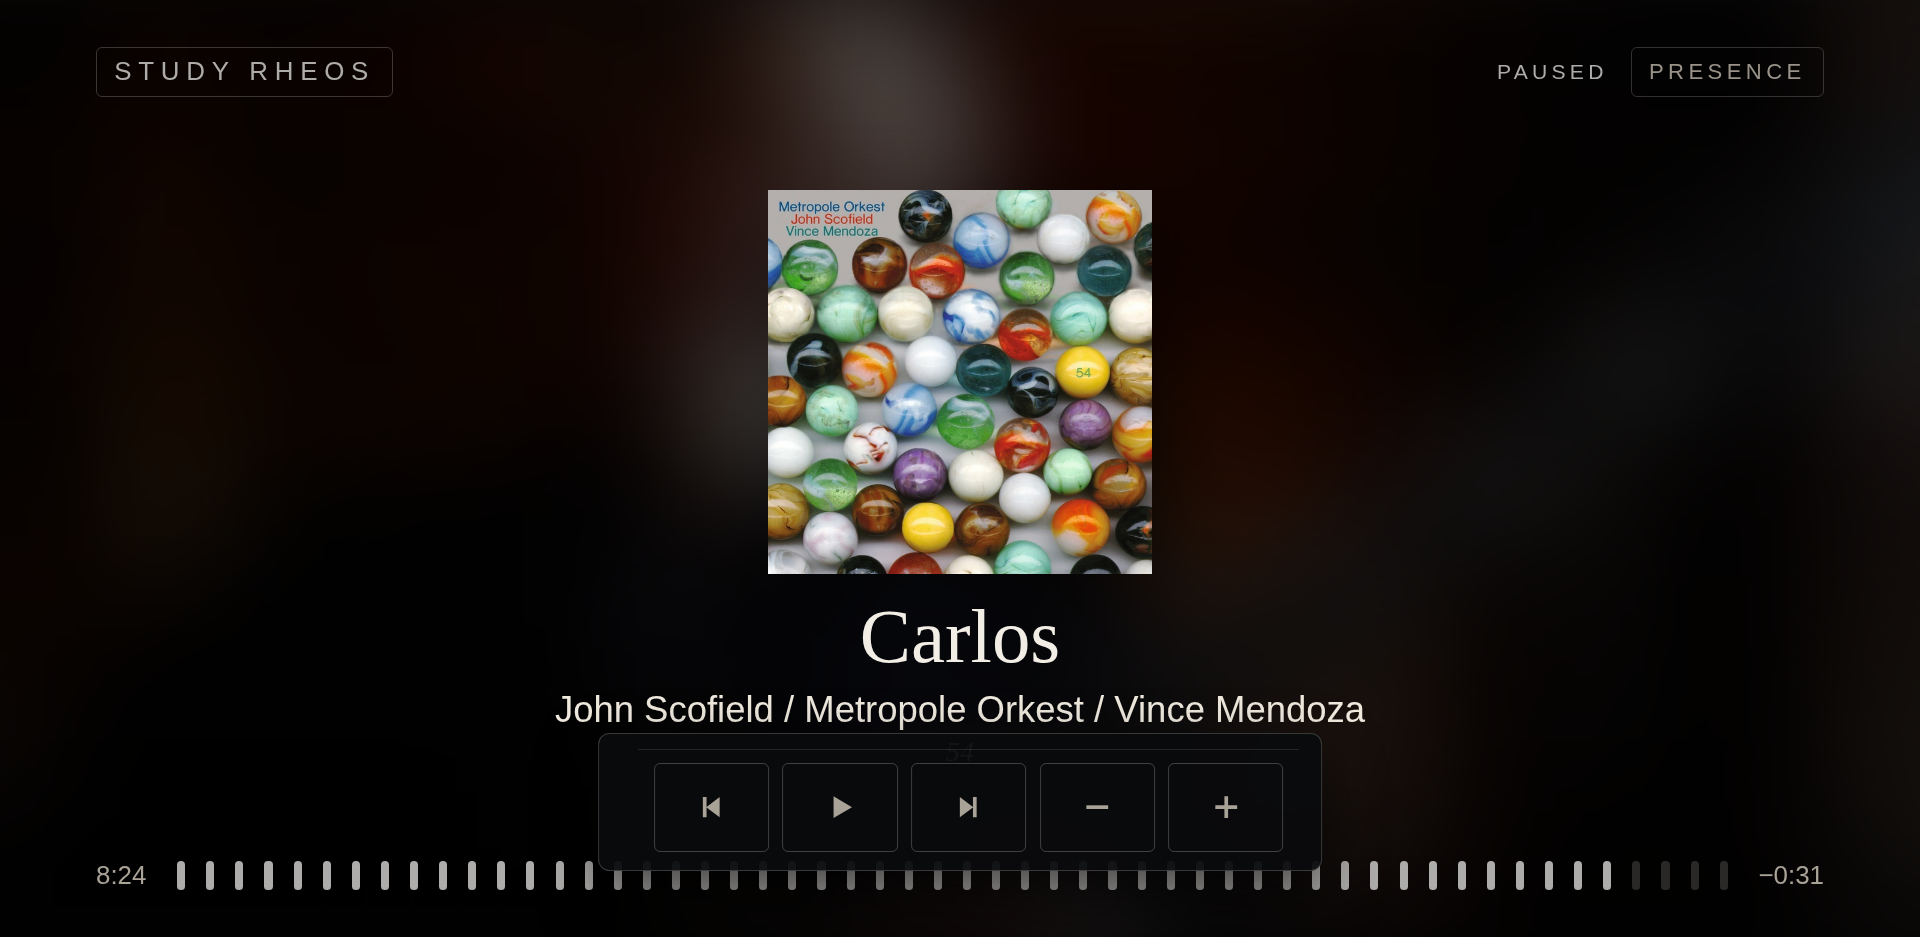
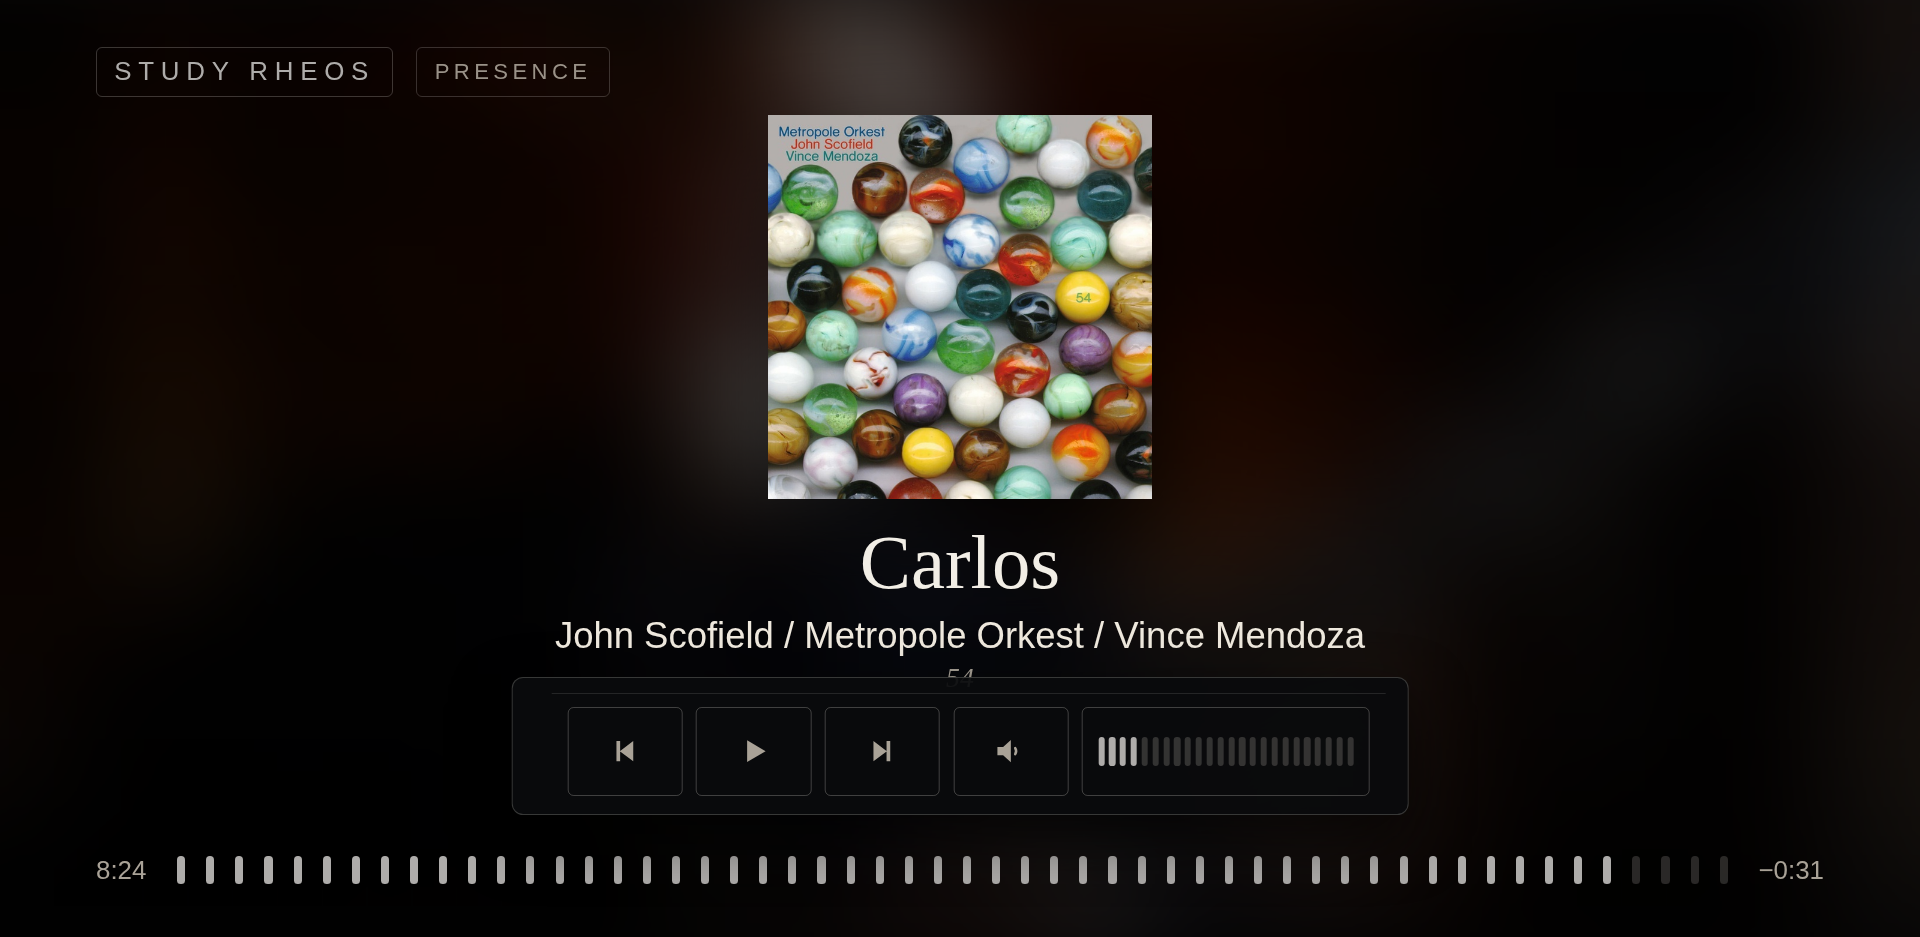
feat(face): seek by pressing the progress, and volume in the runway's own language
Three of Peter's notes, 08-26.

NEVER OVERLAY THE PROGRESS. It is a control now, so a bar sitting on it would hide
the thing you are trying to press. The transport bar clears it, and the row carries
its own z-index.

SEEK. The runway, the bar and the leader all mean the same thing — where you are in
the track — so pressing one anywhere means "go there". Roon says whether a zone can
seek at all and the refusal is shown rather than swallowed; a seek past the end is
refused before it is sent. Verified on the live Core: 5s -> 30s on a paused zone,
409 on a live stream, 400 past the end.

VOLUME, and this is the design answer to "not sure what would look elegant": a
speaker you press to mute, then a scale of segments you press anywhere on. The
segments are deliberately the same motif as the Approach lamps, so volume and
position read as ONE family rather than a slider borrowed from another design
world. The speaker's own waves say roughly how loud it is before the scale is read.
Press-to-position is the gesture — a remote held in the air cannot really drag — and
drag is a bonus where pointer events allow it. An `incremental` output has no level
to show, so it still gets plus and minus.

Absolute volume is clamped server-side to what the device reports it accepts, so a
mis-scaled UI cannot shout.

AND LESS CHROME: the top right is just the face's name now. Playing and paused were
already legible from the transport button's shape and from whether the progress was
[…]

diff --git a/assets/face.js b/assets/face.js
@@ -537,8 +537,17 @@ function render(snapshot, kind) {
     if (chipHost.childNodes.length !== wanted.length) {
       chipHost.replaceChildren.apply(chipHost, wanted.map(function (o) { return el('span', 'chip', o.name); }));
     }
+    /**
+     * Only say something WORTH saying (Peter, 08-26: "we don't need to indicate
+     * playing or paused, just the name of the face").
+     *
+     * Playing and paused are already legible from the transport button's own shape
+     * and from whether the progress is moving — printing them was noise beside the
+     * face name. A Core that has gone away, or a stream still catching up, is not
+     * visible anywhere else, so those still speak.
+     */
     status.textContent = streamState === 'catching-up' ? 'catching up…'
-      : (away ? 'Roon is away' : (zone.state === 'playing' ? 'playing' : zone.state));
+      : (away ? 'Roon is away' : (zone.state === 'loading' ? 'loading' : ''));
 
     var np = zone.nowPlaying;
     if (np === null || zone.state === 'stopped') {
@@ -862,13 +871,35 @@ function showPicker(mode) {
   controls.appendChild(button('next', 'next', zone !== null && zone.allowed.next,
     function () { transport('next'); }));
 
-  // Volume: plus and minus only, no slider — a slider is a drag to miss on a TV.
+  /**
+   * VOLUME, in the runway's own language.
+   *
+   * A speaker you press to mute, then a scale of segments you press anywhere on.
+   * The segments are the same motif as the Approach progress, so volume and
+   * position belong to one visual family rather than a slider imported from a
+   * different design world. Pressing a position sets it absolutely — dragging with
+   * a pointer remote held in the air is miserable, so press-to-position is the
+   * gesture and drag is only a bonus where the device supports it.
+   *
+   * An `incremental` output has no level to show at all — Roon says so — and falls
+   * back to plus and minus.
+   */
   var output = volumeOutput();
-  var hasVolume = output !== null && !!output.volume;
-  controls.appendChild(button('minus', hasVolume ? ('quieter \u00B7 ' + output.name) : 'no volume control',
-    hasVolume, function () { nudgeVolume(-1); }));
-  controls.appendChild(button('plus', hasVolume ? ('louder \u00B7 ' + output.name) : 'no volume control',
-    hasVolume, function () { nudgeVolume(1); }));
+  var vol = output === null ? null : output.volume;
+  if (vol === null) {
+    controls.appendChild(button('minus', 'no volume control', false, function () {}));
+    controls.appendChild(button('plus', 'no volume control', false, function () {}));
+  } else if (vol.type === 'incremental' || vol.value === null || vol.max === null) {
+    controls.appendChild(volumeSpeaker(output, 0.5));
+    controls.appendChild(button('minus', 'quieter \u00B7 ' + output.name, true, function () { nudgeVolume(-1); }));
+    controls.appendChild(button('plus', 'louder \u00B7 ' + output.name, true, function () { nudgeVolume(1); }));
+  } else {
+    var min = vol.min === null ? 0 : vol.min;
+    var span = Math.max(1, vol.max - min);
+    var level = Math.max(0, Math.min(1, (vol.value - min) / span));
+    controls.appendChild(volumeSpeaker(output, vol.muted ? 0 : level));
+    controls.appendChild(volumeScale(output, level, min, span));
+  }
   actionRow.appendChild(controls);
   if (mode === 'transport') nodes.push(actionRow);
 
@@ -1071,6 +1102,41 @@ function pressable(node, onPress) {
   node.addEventListener('keyup', fire);
   node.setAttribute('tabindex', '0');
   node.setAttribute('role', 'button');
+}
+
+function glyphSpeaker(level, muted) {
+  var svg = document.createElementNS(SVG_NS, 'svg');
+  svg.setAttribute('viewBox', '0 0 24 24');
+  svg.setAttribute('class', 'glyph');
+  svg.setAttribute('aria-hidden', 'true');
+  var cone = document.createElementNS(SVG_NS, 'path');
+  cone.setAttribute('fill', 'currentColor');
+  cone.setAttribute('d', 'M4 9.5h3.4L12 5.4v13.2L7.4 14.5H4z');
+  svg.appendChild(cone);
+  var wave = function (d) {
+    var w = document.createElementNS(SVG_NS, 'path');
+    w.setAttribute('fill', 'none');
+    w.setAttribute('stroke', 'currentColor');
+    w.setAttribute('stroke-width', '1.5');
+    w.setAttribute('stroke-linecap', 'round');
+    w.setAttribute('d', d);
+    return w;
+  };
+  if (muted) {
+    var slash = document.createElementNS(SVG_NS, 'path');
+    slash.setAttribute('stroke', 'currentColor');
+    slash.setAttribute('stroke-width', '1.7');
+    slash.setAttribute('stroke-linecap', 'round');
+    slash.setAttribute('d', 'M15 9.5l5 5m0-5l-5 5');
+    svg.appendChild(slash);
+  } else {
+    // The cone alone means silence; each wave is a step of loudness, so the icon
+    // says roughly how loud it is before the scale beside it is even read.
+    if (level > 0.02) svg.appendChild(wave('M14.6 10.2a3.4 3.4 0 0 1 0 3.6'));
+    if (level > 0.34) svg.appendChild(wave('M16.9 8.4a6.6 6.6 0 0 1 0 7.2'));
+    if (level > 0.67) svg.appendChild(wave('M19.2 6.6a9.8 9.8 0 0 1 0 10.8'));
+  }
+  return svg;
 }
 
 function glyphCog() {
@@ -1421,6 +1487,76 @@ function reportPointer(label, count) {
   } catch (error) { /* older engine */ }
 }
 
+/**
+ * SEEK BY PRESSING THE PROGRESS.
+ *
+ * The runway, the bar and the leader all mean the same thing — where you are in
+ * the track — so pressing one anywhere means "go there". Roon says whether the
+ * zone can seek at all (a live stream cannot), and the refusal is shown rather
+ * than swallowed.
+ */
+function seekFromPress(clientX) {
+  var zone = currentZone();
+  if (zone === null || zone.nowPlaying === null) return;
+  if (!zone.allowed.seek) { flash('this cannot be scrubbed'); return; }
+  var length = zone.nowPlaying.lengthSec;
+  if (!length) { flash('no track length to seek within'); return; }
+  var box = foot.getBoundingClientRect();
+  if (box.width <= 0) return;
+  var fraction = Math.max(0, Math.min(1, (clientX - box.left) / box.width));
+  command({ action: 'seek', zone: zone.id, seconds: Math.round(fraction * length) });
+}
+
+/** The speaker doubles as the mute control, and shows roughly how loud it is. */
+function volumeSpeaker(output, level) {
+  var muted = !!(output.volume && output.volume.muted);
+  var node = el('span', muted ? 'ctl vol-speaker is-muted' : 'ctl vol-speaker');
+  node.appendChild(glyphSpeaker(level, muted));
+  node.setAttribute('aria-label', muted ? 'unmute ' + output.name : 'mute ' + output.name);
+  node.setAttribute('title', node.getAttribute('aria-label'));
+  pressable(node, function () {
+    command({ action: 'mute', output: output.id, muted: !muted });
+  });
+  return node;
+}
+
+/** A pressable level, segmented like the runway. */
+function volumeScale(output, level, min, span) {
+  var SEGMENTS = 24;
+  var scale = el('span', 'vol-scale');
+  scale.setAttribute('aria-label', 'volume \u00B7 ' + output.name);
+  scale.setAttribute('title', 'volume ' + Math.round(level * 100) + '%  \u00B7  ' + output.name);
+  var lit = Math.round(level * SEGMENTS);
+  for (var i = 0; i < SEGMENTS; i += 1) {
+    scale.appendChild(el('b', i < lit ? 'on' : ''));
+  }
+  var setFrom = function (clientX) {
+    var box = scale.getBoundingClientRect();
+    if (box.width <= 0) return;
+    var fraction = Math.max(0, Math.min(1, (clientX - box.left) / box.width));
+    command({ action: 'volume', output: output.id, value: Math.round(min + fraction * span) });
+  };
+  // Press to position. Drag is a bonus where the pointer supports it; a remote
+  // held in the air cannot really drag, so it is never the only way.
+  var dragging = false;
+  scale.addEventListener('pointerdown', function (event) {
+    if (panelJustAppeared()) return;
+    dragging = true; setFrom(event.clientX); event.preventDefault(); event.stopPropagation();
+  });
+  scale.addEventListener('pointermove', function (event) {
+    if (dragging) { setFrom(event.clientX); event.preventDefault(); }
+  });
+  var stop = function () { dragging = false; };
+  scale.addEventListener('pointerup', stop);
+  scale.addEventListener('pointerleave', stop);
+  // Devices without pointer events still get press-to-position.
+  scale.addEventListener('click', function (event) {
+    if (panelJustAppeared()) return;
+    setFrom(event.clientX); event.stopPropagation();
+  });
+  return scale;
+}
+
 /* ---------- the remote ----------
  * A TV browser is not a desktop one. Two things broke the D-pad here:
  *
@@ -1575,7 +1711,7 @@ function onFacePress(event) {
 
   var target = event ? event.target : null;
   // Anything that handles its own presses is not a zone.
-  if (target !== null && (inNode(target, cover) || inNode(target, picker)
+  if (target !== null && (inNode(target, cover) || inNode(target, picker) || inNode(target, foot)
       || (browsePanel !== null && inNode(target, browsePanel)))) return;
   lastZonePress = now;
 
@@ -1596,6 +1732,21 @@ function onFacePress(event) {
 ['click', 'pointerup', 'touchend', 'mouseup'].forEach(function (kind) {
   document.addEventListener(kind, onFacePress);
 });
+
+// The progress row is its own zone: pressing it seeks.
+var lastSeekPress = 0;
+['click', 'pointerup', 'touchend'].forEach(function (kind) {
+  foot.addEventListener(kind, function (event) {
+    var now = Date.now();
+    if (now - lastSeekPress < 400 || panelJustAppeared()) return;
+    lastSeekPress = now;
+    var x = typeof event.clientX === 'number' ? event.clientX
+      : (event.changedTouches && event.changedTouches[0] ? event.changedTouches[0].clientX : 0);
+    seekFromPress(x);
+    event.stopPropagation();
+  });
+});
+foot.setAttribute('title', 'press to seek');
 // Movement reveals the affordances but opens nothing.
 ['mousemove', 'pointermove', 'touchstart'].forEach(function (kind) {
   document.addEventListener(kind, revealChrome, true);

diff --git a/src/http/server.ts b/src/http/server.ts
@@ -18,6 +18,8 @@ export interface BrowseAccess {
 
 export interface Commands {
   control(zoneId: string, action: TransportAction): Promise<void>;
+  seek(zoneId: string, seconds: number): Promise<void>;
+  setVolume(outputId: string, value: number): Promise<void>;
   changeVolume(outputId: string, steps: number, incremental: boolean): Promise<void>;
   mute(outputId: string, muted: boolean): Promise<void>;
 }
@@ -411,6 +413,22 @@ async function handleControl(
       return;
     }
 
+    if (action === 'seek') {
+      const zoneId = typeof body.zone === 'string' ? body.zone : '';
+      const seconds = typeof body.seconds === 'number' ? body.seconds : -1;
+      if (zoneId === '' || seconds < 0) { json(response, 400, { error: 'zone and seconds required' }); return; }
+      const snapshot = deps.hub.snapshot();
+      const zone = snapshot === null ? undefined : snapshot.zones.find((z) => z.id === zoneId);
+      if (zone === undefined) { json(response, 404, { error: 'unknown zone' }); return; }
+      // Roon says whether this zone can seek at all — a live radio stream cannot.
+      if (!zone.allowed.seek) { json(response, 409, { error: 'seeking is not available here' }); return; }
+      const length = zone.nowPlaying === null ? null : zone.nowPlaying.lengthSec;
+      if (length !== null && seconds > length) { json(response, 400, { error: 'past the end of the track' }); return; }
+      await commands.seek(zoneId, seconds);
+      json(response, 200, { ok: true });
+      return;
+    }
+
     if (action === 'volume' || action === 'mute') {
       const outputId = typeof body.output === 'string' ? body.output : '';
       if (outputId === '') { json(response, 400, { error: 'output required' }); return; }
@@ -422,6 +440,17 @@ async function handleControl(
 
       if (action === 'mute') {
         await commands.mute(outputId, body.muted === true);
+        json(response, 200, { ok: true });
+        return;
+      }
+      // An exact level, for a scale that is pressed rather than stepped. Clamped to
+      // what the device says it accepts, so a mis-scaled UI cannot shout.
+      if (typeof body.value === 'number') {
+        const min = output.volume.min ?? 0;
+        const max = output.volume.max ?? 100;
+        const value = Math.max(min, Math.min(max, Math.round(body.value)));
+        await commands.setVolume(outputId, value);
+        log('volume = ' + String(value) + ' -> ' + output.name);
         json(response, 200, { ok: true });
         return;
       }

diff --git a/assets/face.css b/assets/face.css
@@ -688,3 +688,44 @@ body { font-family: "Helvetica Neue", Arial, sans-serif; color: #f2eee6; -webkit
 /* The indicators are the topmost thing in their corners: whatever the layout does
    underneath, a press on the room or the face name must reach them. */
 .head { position: relative; z-index: 5; }
+
+/* ══ VOLUME, IN THE RUNWAY'S LANGUAGE ═════════════════════════════════════════
+   A speaker that mutes, and a scale of segments pressed anywhere to set the level.
+   The segments deliberately echo the Approach lamps: volume and position then read
+   as one family rather than a slider borrowed from elsewhere. */
+.vol-speaker { min-width: 4.6vw; }
+.vol-speaker.is-muted { color: var(--accent); }
+.vol-scale {
+  display: -webkit-inline-flex; display: inline-flex;
+  -webkit-align-items: center; align-items: center;
+  -webkit-justify-content: space-between; justify-content: space-between;
+  min-width: 15vw; min-height: 4.6vw; margin: 0.4vh 0.35vw; padding: 0 .8vw;
+  border: 1px solid rgba(242,238,230,.24); border-radius: 6px; cursor: pointer;
+  -webkit-user-select: none; user-select: none; -webkit-touch-callout: none;
+}
+.vol-scale:hover { border-color: rgba(242,238,230,.5); background: rgba(242,238,230,.06); }
+.vol-scale b {
+  display: block; width: .32vw; height: 1.5vw; border-radius: .16vw;
+  background: rgba(242,238,230,.18);
+}
+.vol-scale b.on { background: var(--accent); }
+.is-muted + .vol-scale b.on { background: rgba(242,238,230,.3); }
+
+/* THE PROGRESS ROW IS NEVER COVERED — it is a control now, so a bar sitting on it
+   would hide the thing you are trying to press. */
+.foot { position: relative; z-index: 4; cursor: pointer; padding: .6vh 0; }
+.picker.mode-transport { bottom: 13vh; top: auto; }
+@media (max-width: 900px) {
+  .vol-scale { min-width: 40vw; min-height: 15vw; }
+  .vol-scale b { width: 1vw; height: 5vw; }
+  .picker.mode-transport { bottom: 18vh; }
+}
+
+/* With the controls up, the music sits higher: the sleeve shrinks and the whole
+   group rises, so the transport bar and the progress row both have clear air.
+   (Peter, 08-26: the art "can be placed higher on the page if needed".) */
+.face.show-chrome .body {
+  -webkit-box-pack: start; -webkit-justify-content: flex-start; justify-content: flex-start;
+  padding-top: 2vh;
+}
+.status:empty { display: none; }

diff --git a/test/control.test.ts b/test/control.test.ts
@@ -33,6 +33,8 @@ async function serve(t: { after: (fn: () => void) => void }) {
   const sent: Sent[] = [];
   const commands: Commands = {
     control: async (zone, action) => { sent.push({ kind: 'control', a: zone, b: action }); },
+    seek: async (zone, seconds) => { sent.push({ kind: 'seek', a: zone, b: seconds }); },
+    setVolume: async (output, value) => { sent.push({ kind: 'setVolume', a: output, b: value }); },
     changeVolume: async (output, steps, incremental) => { sent.push({ kind: 'volume', a: output, b: steps, c: incremental }); },
     mute: async (output, muted) => { sent.push({ kind: 'mute', a: output, b: muted }); },
   };
@@ -128,4 +130,27 @@ test('with no Core attached the route says so instead of pretending', async (t) 
     body: JSON.stringify({ action: 'playpause', zone: 'z' }),
   });
   assert.equal(response.status, 503);
+});
+
+test('seek is refused where Roon says it is not allowed, and clamped to the track', async (t) => {
+  const { post, sent } = await serve(t);
+  assert.equal((await post({ action: 'seek', zone: 'zPlay', seconds: 90 })).status, 200);
+  assert.deepEqual(sent[0], { kind: 'seek', a: 'zPlay', b: 90 });
+  // zRadio reports is_seek_allowed false — a live stream cannot be scrubbed.
+  assert.equal((await post({ action: 'seek', zone: 'zRadio', seconds: 10 })).status, 409);
+  // past the end of a 200s track
+  assert.equal((await post({ action: 'seek', zone: 'zPlay', seconds: 9999 })).status, 400);
+  assert.equal((await post({ action: 'seek', zone: 'zPlay' })).status, 400);
+  assert.equal(sent.length, 1, 'only the valid seek reached the Core');
+});
+
+test('an absolute volume is clamped to what the device accepts', async (t) => {
+  const { post, sent } = await serve(t);
+  await post({ action: 'volume', output: 'oStudy', value: 55 });
+  assert.deepEqual(sent[0], { kind: 'setVolume', a: 'oStudy', b: 55 });
+  // the output reports min 0 max 100
+  await post({ action: 'volume', output: 'oStudy', value: 5000 });
+  assert.equal(sent[1].b, 100, 'clamped to max');
+  await post({ action: 'volume', output: 'oStudy', value: -40 });
+  assert.equal(sent[2].b, 0, 'clamped to min');
 });

diff --git a/src/roon/extension.ts b/src/roon/extension.ts
@@ -172,6 +172,30 @@ export class FlightDeckExtension {
     });
   }
 
+  /** Absolute position in seconds. Roon refuses it where seeking makes no sense. */
+  seek(zoneId: string, seconds: number): Promise<void> {
+    return new Promise((resolve, reject) => {
+      const transport = this.transport;
+      if (transport === null) { reject(new Error('core not paired')); return; }
+      transport.seek(zoneId, 'absolute', Math.max(0, Math.round(seconds)), (error: unknown) => {
+        if (error === false || error === undefined || error === null) resolve();
+        else reject(new Error(String(error)));
+      });
+    });
+  }
+
+  /** An exact level, for a scale you press rather than step. */
+  setVolume(outputId: string, value: number): Promise<void> {
+    return new Promise((resolve, reject) => {
+      const transport = this.transport;
+      if (transport === null) { reject(new Error('core not paired')); return; }
+      transport.change_volume(outputId, 'absolute', value, (error: unknown) => {
+        if (error === false || error === undefined || error === null) resolve();
+        else reject(new Error(String(error)));
+      });
+    });
+  }
+
   mute(outputId: string, muted: boolean): Promise<void> {
     return new Promise((resolve, reject) => {
       const transport = this.transport;

diff --git a/docs/tv-setup.md b/docs/tv-setup.md
@@ -101,6 +101,9 @@ up to make space. All of it fades again after six seconds.
 | the **room**, top left | the **room selector**, and "the wall" for the whole house |
 | the **face name**, top right | the **faces** |
 | the **lower band** | the transport bar |
+| the **progress row** | **seeks** to that point in the track |
+| the **speaker** | mute / unmute |
+| the **volume scale** | sets the level — press anywhere on it |
 
 The defined areas work **at rest too** — you do not have to wake the screen first.
 Each indicator NAMES what it changes, so the screen explains itself without a
